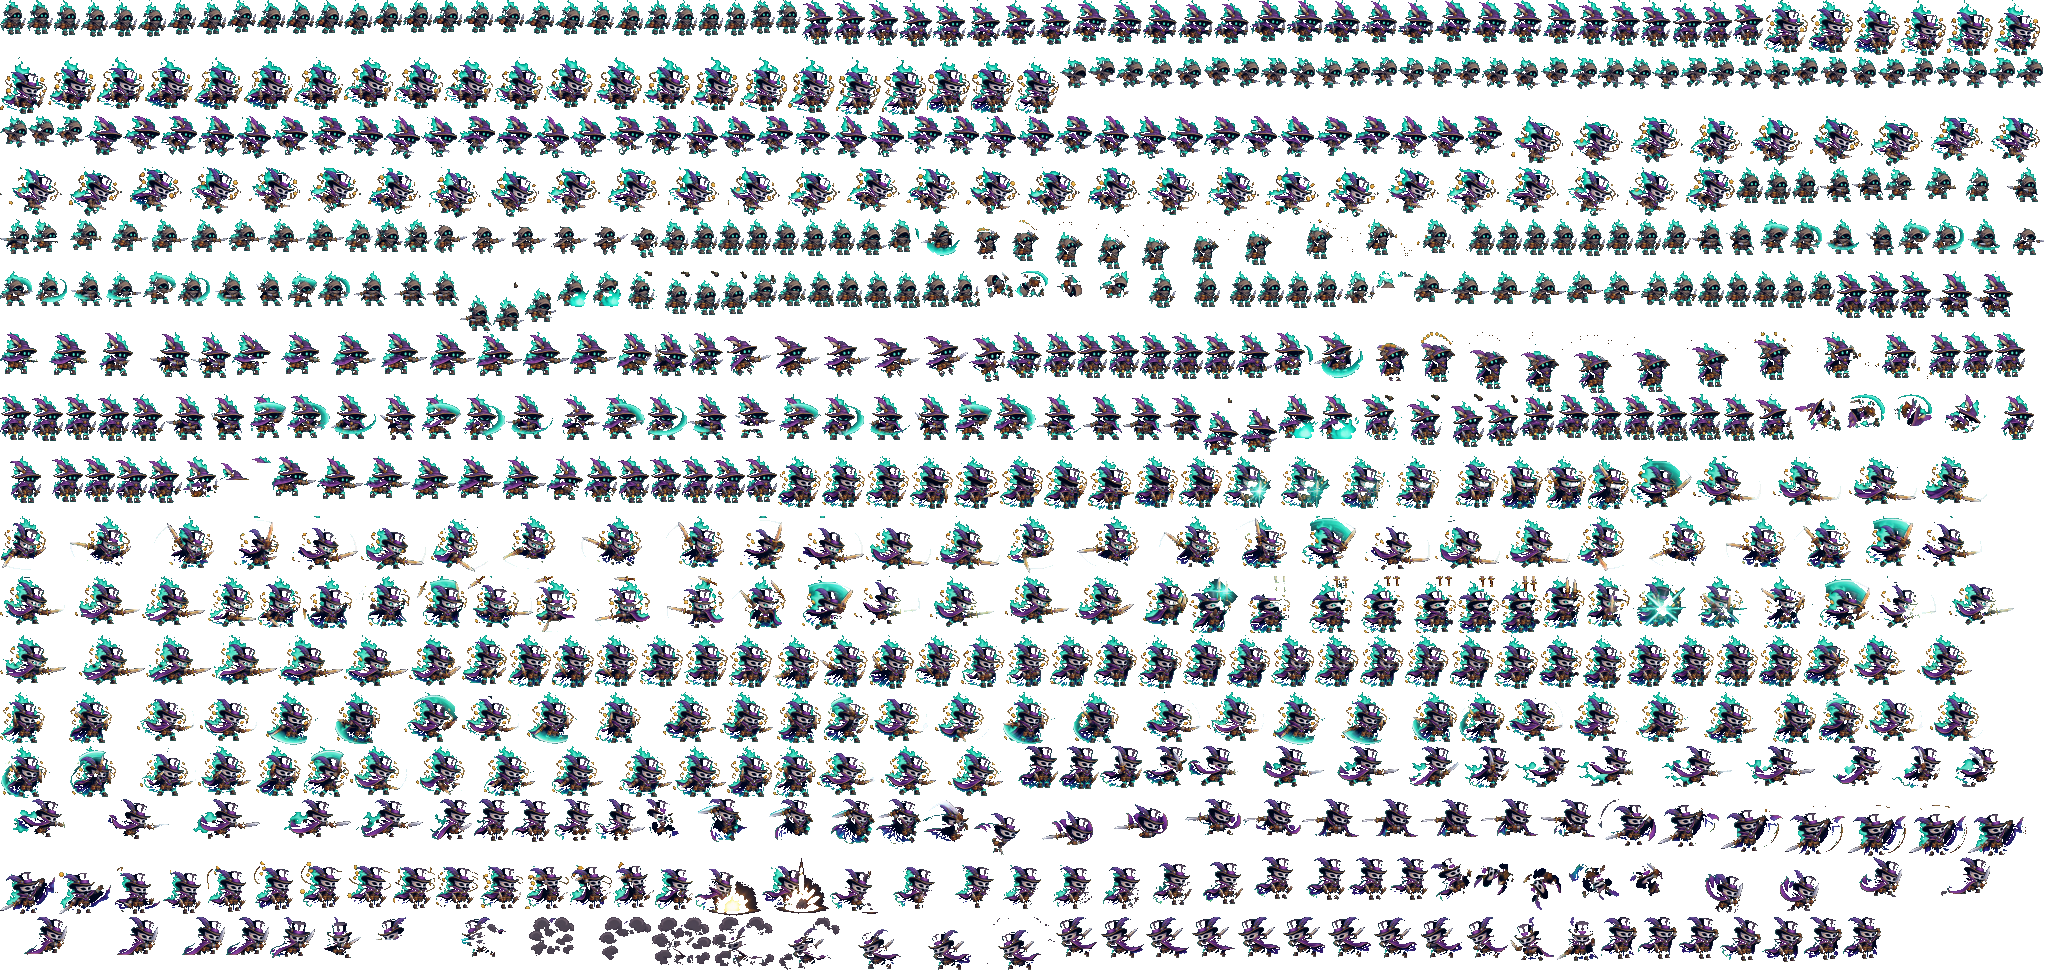
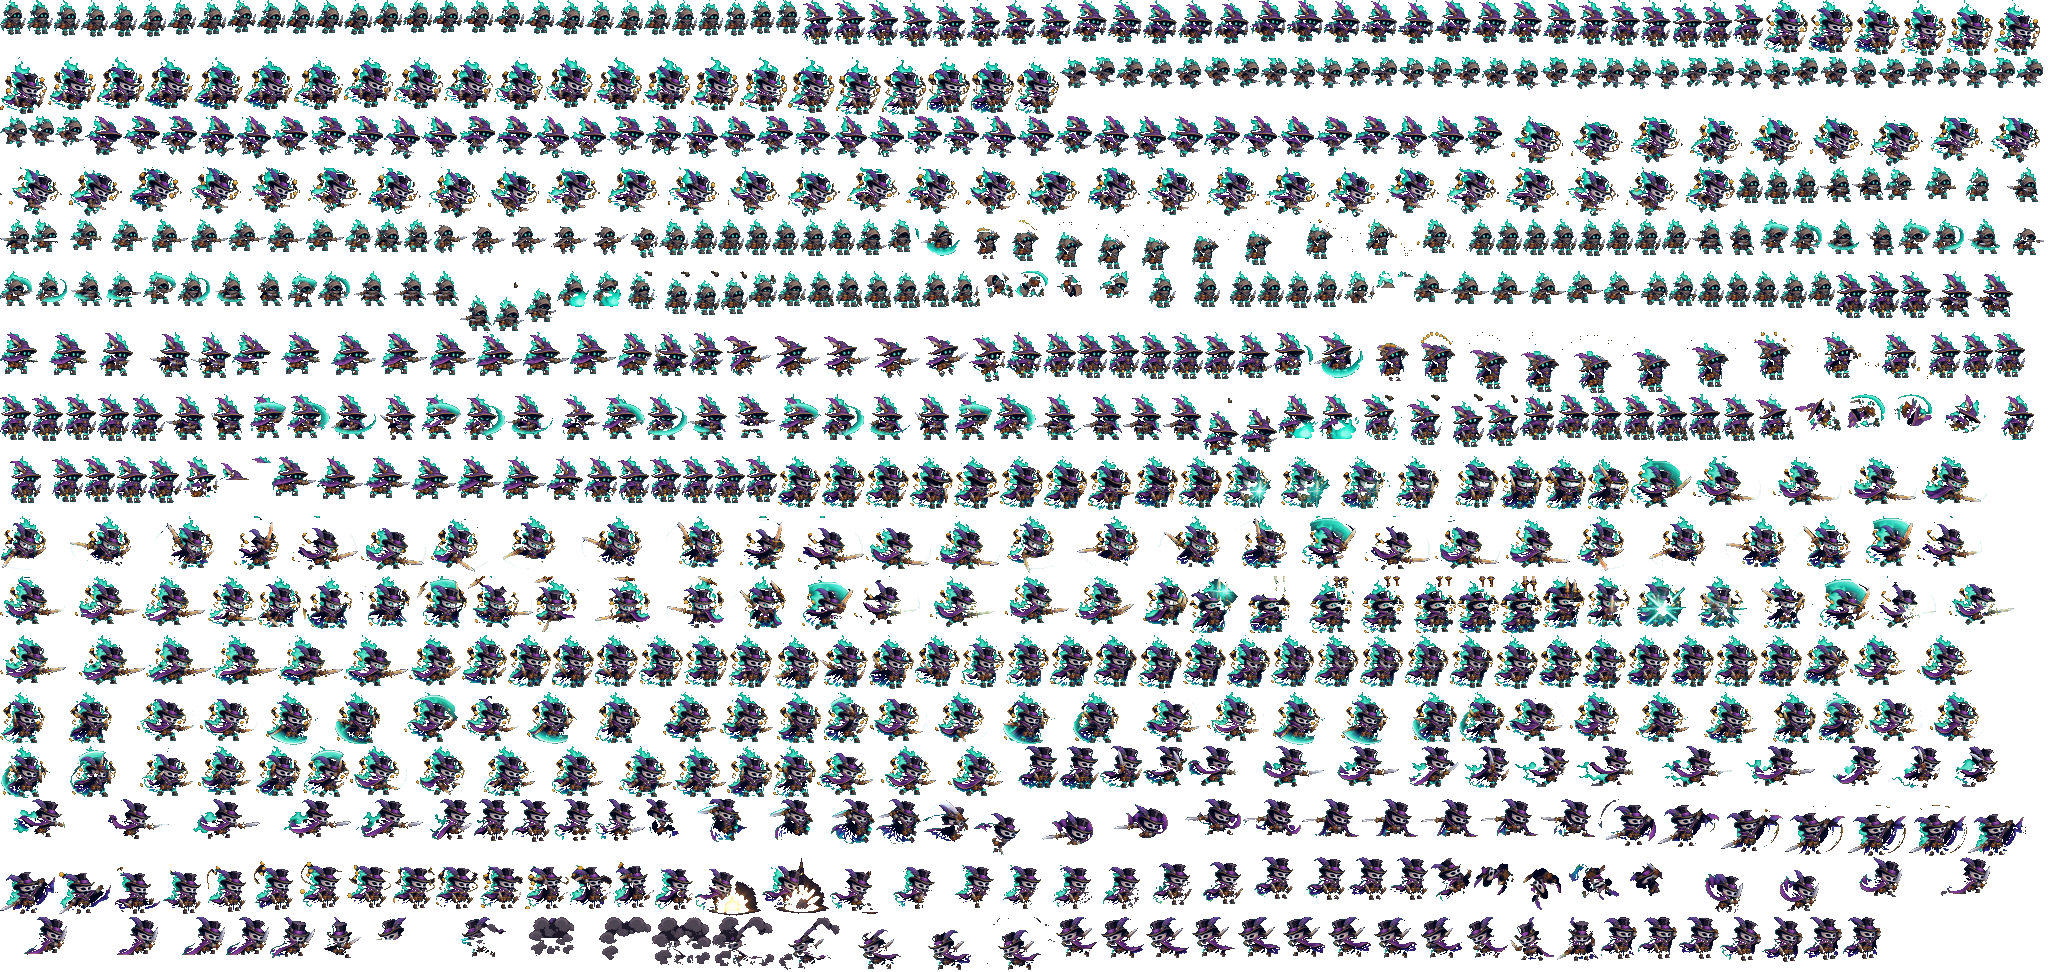
괴도 3단계 실크햇 속 뚫린 자리 메우기 (fx_fillhat.py)
Claude-Session: https://claude.ai/code/session_01CPuQwRxjahy2BkbhjWZhoU

diff --git a/art/heroframes/hero_cut.py b/art/heroframes/hero_cut.py
@@ -2,7 +2,7 @@
 # python3 art/heroframes/hero_cut.py <계보> src=<영상>[,zone=left] <동작:시작초:끝초[:fps][:pin]> ... (src= 여러 번 가능, 한 시트로 합침)
 #   병사: soldier src=art/heroframes/soldier_idle_run_source.mp4 idle:1.1:4:10:pin run:4.6:9.6:10:pin src=art/heroframes/soldier_attack_source.mp4,zone=left,only=2 attack:0.4:3.6:12 charge:5.4:8.8:12 src=art/heroframes/soldier_s12_attack_source.mp4,zone=half,n=2,st=0,white=0 attack:0.2:4.4:12 charge:4.6:9.4:12
 #   괴도: thief src=art/heroframes/thief_idle_run_source.mp4 idle:2.583:3.99:20 run:6.3:10.1:10:pin src=art/heroframes/thief_s12_attack_source.mp4,zone=own,n=2,st=0 attack:0:10.1:12 src=art/heroframes/thief_s3_pickpocket_source.mp4,zone=own,n=1,st=2,sc=0.9,fill=1500 pick:0:10.1:12 src=art/heroframes/thief_s3_cuts_source.mp4,zone=own,n=1,st=2,sc=0.9,fill=1500 cuts:0.3:4.6:12 src=art/heroframes/thief_s3_attack_source.mp4,zone=own,n=1,st=2,sc=0.75,fill=1500 attack:0:10.1:12
-#     그다음: 대기 fps 17, seg·pseg 넣고, fx_dropcolor.py thief coin, fx_recolor.py thief drop 2 cuts, fx_recolor.py thief drop 2 pick (원 궤적 지움), fx_recolor.py thief drop 2 attack, fx_clean.py thief 2 attack 0-40,48-85 / 86-101 bright / 30-37 teal (연기·흰 궤적), 3단계 seg 넣기
+#     그다음: 대기 fps 17, seg·pseg 넣고, fx_dropcolor.py thief coin, fx_recolor.py thief drop 2 cuts, fx_recolor.py thief drop 2 pick (원 궤적 지움), fx_recolor.py thief drop 2 attack, fx_clean.py thief 2 attack 0-40,48-85 / 86-101 bright / 30-37 teal (연기·흰 궤적), 3단계 seg 넣기, fx_fillhat.py thief 2 (실크햇 속)
 #   처형인: executioner h1=43 src=art/heroframes/executioner_idle_run_source.mp4 idle:0.2:2.6:10:pin run:2.9:5.15:10:pin src=art/heroframes/executioner_s12_attack_source.mp4,zone=own,n=2,st=0 attack:0:10.1:12 src=art/heroframes/executioner_s3_attack_source.mp4,zone=own,n=1,st=2 attack:0:10.1:12  (그다음 seg 넣고 fx_recolor.py executioner 356 으로 궤적을 붉게)
 #   서리 늑대: frostwolf src=art/heroframes/frostwolf_idle_run_source.mp4 idle:1.0:5.3:10:pin run:6.0:8.5:10:pin src=art/heroframes/frostwolf_s12_attack_source.mp4,zone=own,n=2,st=0 attack:0:10:12 src=art/heroframes/frostwolf_s3_attack_source.mp4,zone=own,n=1,st=2 attack:0:10:12
 #   지금: 둘째 src = art/heroframes/soldier_s3_attack_source.mp4,zone=half,n=1,st=2 attack:0.2:4.4:12 charge:5.2:9.0:12

diff --git a/art/heroframes/fx_fillhat.py b/art/heroframes/fx_fillhat.py
@@ -1,0 +1,23 @@
+# 검은 모자 속처럼 바탕색과 비슷해 키잉에서 뚫린 자리를 메운다 (괴도 3단계 실크햇). hero_cut.py로 다시 자르면 이것도 다시 돌린다
+# 프레임 위쪽 절반에서 알파를 닫고(closing) 구멍을 채운 뒤, 불꽃 곁이 아닌 자리만 모자색으로 칠한다 (불꽃 사이 틈은 그대로)
+# 실행: python3 art/heroframes/fx_fillhat.py thief 2
+import sys, json, numpy as np
+from PIL import Image
+from scipy import ndimage
+LINE, ST = sys.argv[1], int(sys.argv[2]); IT = int(sys.argv[3]) if len(sys.argv) > 3 else 2
+s = open("index.html").read(); k = s.index(f"{LINE}: ", s.index("const HERO = {")) + len(LINE) + 2
+H, _ = json.JSONDecoder().raw_decode(s[k:]); B = H["boxes"]
+sheet = np.asarray(Image.open(f"assets/hero_{LINE}.png").convert("RGBA")).copy(); done = set(); n = 0
+HAT = np.array([28, 24, 40])
+for mv, M in H["stages"][ST].items():
+    if not isinstance(M, dict) or "f" not in M: continue
+    for ci, ox, oy in M["f"]:
+        if ci in done: continue
+        done.add(ci); x, y, w, h = B[ci]; c = sheet[y:y + h, x:x + w]; m = c[..., 3] > 0
+        P = 3; mp = np.pad(m, P); cl = ndimage.binary_fill_holes(ndimage.binary_closing(mp, iterations=IT))[P:-P, P:-P]
+        add = cl & ~m; add[h // 2:] = False
+        r_, g_, b_ = [c[..., i].astype(int) for i in range(3)]; teal = m & (g_ > r_ + 25) & (b_ > r_ + 15)
+        tl = ndimage.uniform_filter(teal.astype(float), 5, mode="constant"); opq = ndimage.uniform_filter(m.astype(float), 5, mode="constant")
+        add &= (tl / np.maximum(opq, 1e-3)) < 0.3                       # 불꽃(청록) 사이 틈은 메우지 않는다
+        c[add, :3] = HAT; c[add, 3] = 255; n += int(add.sum())
+Image.fromarray(sheet).save(f"assets/hero_{LINE}.png", optimize=True); print("filled px", n)
